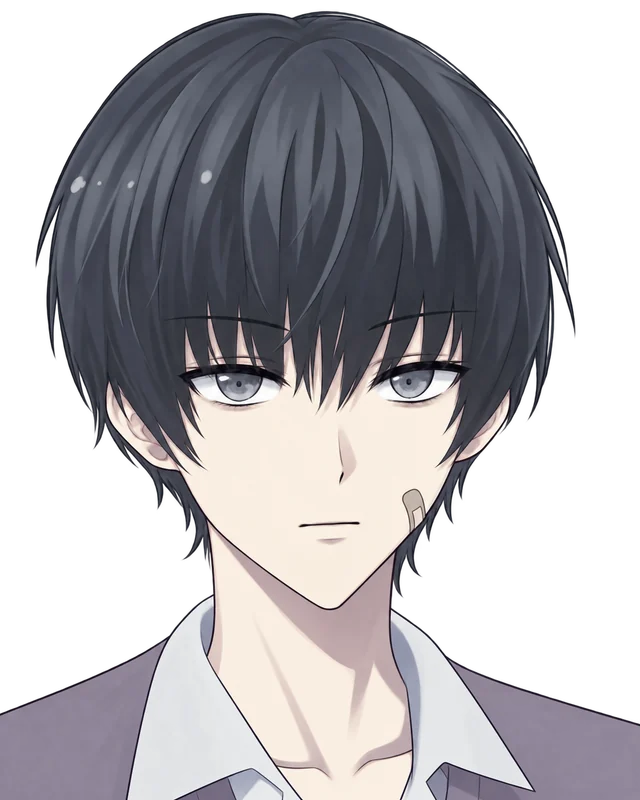
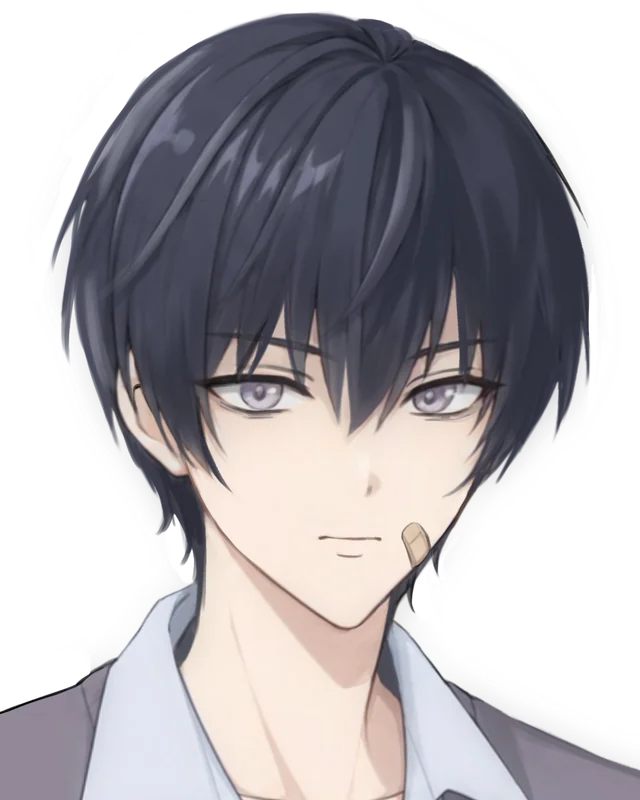
feat(portrait): 주인공 초상 3장을 새 그림으로 교체하고 embarrassed를 뺀다
- 새 PNG(1348×1892)를 이전 초상과 머리 폭(83%)·정수리 위치가 같도록 4:5로 잘라
  640×800 webp로 변환. 세 장 같은 크롭이라 겹쳐 페이드해도 정렬이 맞는다
- surprised는 입이 살짝 열려 있어 말하는 중 프레임으로 그대로 쓴다
- 대사에서 쓰이지 않던 embarrassed 표정은 파일과 함께 목록·스키마에서 뺐다
- 캐시가 섞이지 않게 ?v=3

diff --git a/src/lib/assets.ts b/src/lib/assets.ts
@@ -135,10 +135,9 @@ export const ASSETS = {
     cutsceneRadioHands: "/assets/images/cutscene-radio-hands.webp",
     cutsceneRadioSignal: "/assets/images/cutscene-radio-signal.webp",
     /** 대사창 초상. 전부 같은 크롭이라 겹쳐서 opacity만 토글하면 정렬이 맞는다. */
-    characterHeroNeutral: "/assets/images/character-hero-neutral.webp?v=2",
-    characterHeroSmile: "/assets/images/character-hero-smile.webp?v=2",
-    characterHeroSurprised: "/assets/images/character-hero-surprised.webp?v=2",
-    characterHeroEmbarrassed: "/assets/images/character-hero-embarrassed.webp",
+    characterHeroNeutral: "/assets/images/character-hero-neutral.webp?v=3",
+    characterHeroSmile: "/assets/images/character-hero-smile.webp?v=3",
+    characterHeroSurprised: "/assets/images/character-hero-surprised.webp?v=3",
     characterHeroSheet: "/assets/images/character-hero-sheet.webp?v=2",
   },
   /**

diff --git a/src/types/interaction.ts b/src/types/interaction.ts
@@ -6,7 +6,7 @@ import type { CharacterId } from "./scenario";
 export type MemoryRoomTextKey = ParseKeys<"memoryRoom">;
 
 /** 초상 프레임. 대사가 다 찍히면 이 표정으로 돌아온다 (타이핑 중에는 입 열린 프레임). */
-export type CharacterExpression = "neutral" | "smile" | "surprised" | "embarrassed";
+export type CharacterExpression = "neutral" | "smile" | "surprised";
 
 export interface DialogueScriptLine {
   speaker: CharacterId;

diff --git a/src/components/ui/character-portrait.ts b/src/components/ui/character-portrait.ts
@@ -17,7 +17,6 @@ export const PORTRAIT_SOURCES: Record<CharacterExpression, string> = {
   neutral: ASSETS.images.characterHeroNeutral,
   smile: ASSETS.images.characterHeroSmile,
   surprised: ASSETS.images.characterHeroSurprised,
-  embarrassed: ASSETS.images.characterHeroEmbarrassed,
 };
 
 export const PORTRAIT_EXPRESSIONS = Object.keys(PORTRAIT_SOURCES) as CharacterExpression[];

diff --git a/public/assets/CREDITS.md b/public/assets/CREDITS.md
@@ -16,7 +16,7 @@
 | images/mg-ball-catch-bat.webp | Style-matched with OpenAI built-in ImageGen for this project, 2026-09-25 | OpenAI built-in ImageGen | Project-generated |
 | images/mg-ball-catch-impact.webp | Style-matched with OpenAI built-in ImageGen for this project, 2026-09-25 | OpenAI built-in ImageGen | Project-generated |
 | images/mg-frequency-tune-frame.webp | 사용자 제공 라디오 일러스트를 OpenAI built-in ImageGen으로 화풍 정리(2026-09-25). 외곽·표시창 알파 보존 | 미기재 (원본) · OpenAI built-in ImageGen (화풍 정리) | 프로젝트 편집 에셋 |
-| images/character-hero-neutral.webp, images/character-hero-smile.webp, images/character-hero-surprised.webp, images/character-hero-embarrassed.webp | 기존 주인공 초상을 OpenAI built-in ImageGen으로 선화·얼굴 비례·대일밴드 위치 정리 및 약한 당황 표정 추가(2026-09-25). 640×800, 투명 배경, 공통 알파 마스크 | 기존 프로젝트 에셋 (원본) · OpenAI built-in ImageGen (화풍·표정 편집) | 프로젝트 편집 에셋 |
+| images/character-hero-neutral.webp, images/character-hero-smile.webp, images/character-hero-surprised.webp | 사용자가 새로 넣은 주인공 초상 3장(2026-09-25 교체). 1348×1892 PNG를 이전 초상과 머리 폭·정수리 위치가 같도록 4:5로 잘라 640×800 webp로 변환. 투명 배경, 세 장 같은 크롭. embarrassed 표정은 이때 뺐다 | 미기재 (사용자 제공) | 미기재 |
 | images/character-hero-sheet.webp | 사용자가 새로 그린 LD 스케치를 OpenAI built-in ImageGen으로 기존 캐릭터 팔레트에 맞춰 채색·선화 정리(2026-09-25). SD 조각 제거, 상반신 크롭, 투명 배경 | suu3 (원본 스케치) · OpenAI built-in ImageGen (채색·마감) | 프로젝트 편집 에셋 |
 | images/mg-window-view-outside.webp | 사용자가 직접 넣은 창밖 일러스트(2026-08-04). webp로 변환 | 미기재 (사용자 제공) | 미기재 |
 | images/mg-photo-wipe-phase-1.webp, images/mg-photo-wipe-phase-2.webp | 사용자가 직접 넣은 액자 가족사진 일러스트 두 장(2026-09-12 교체). 1차는 부모 얼굴이 그늘에 묻힌 버전, 2차는 드러난 버전. webp | 미기재 (사용자 제공) | 미기재 |
